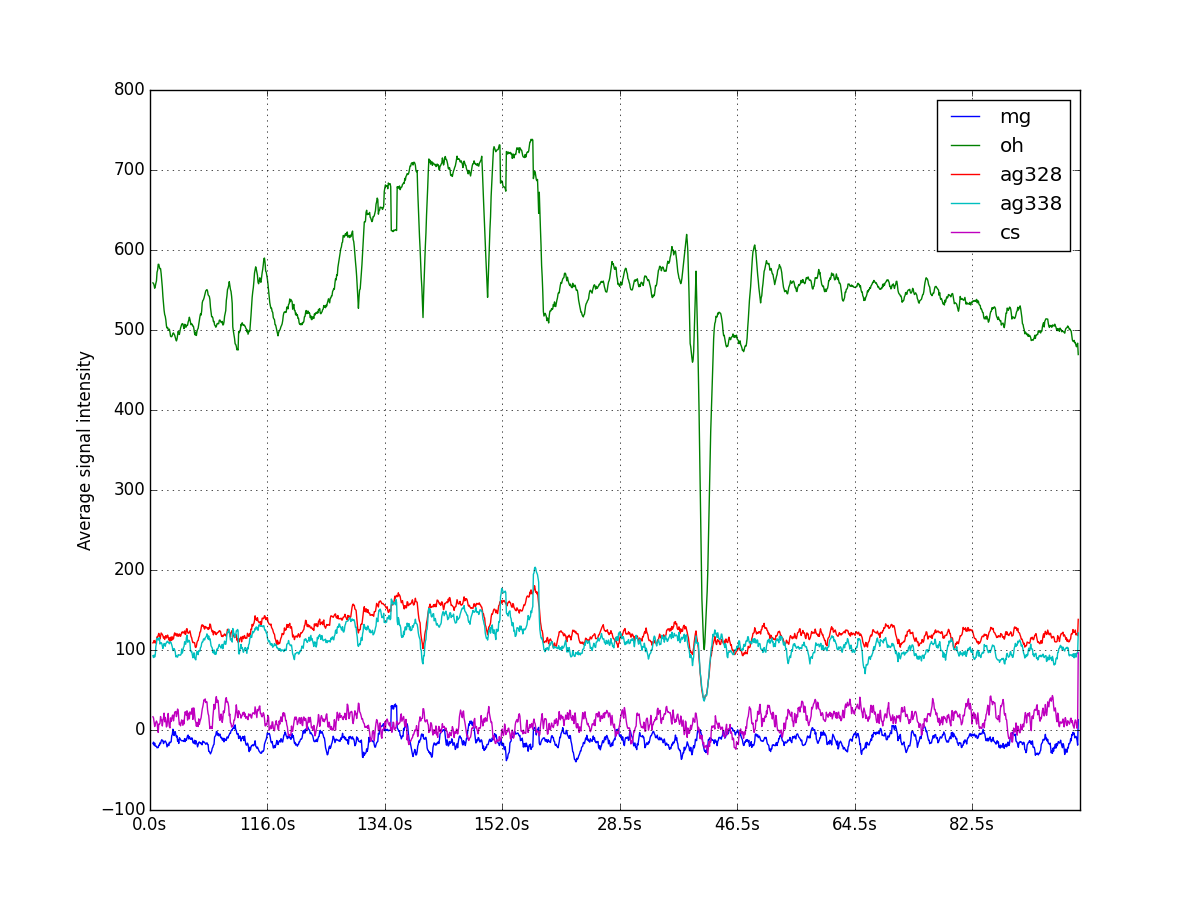
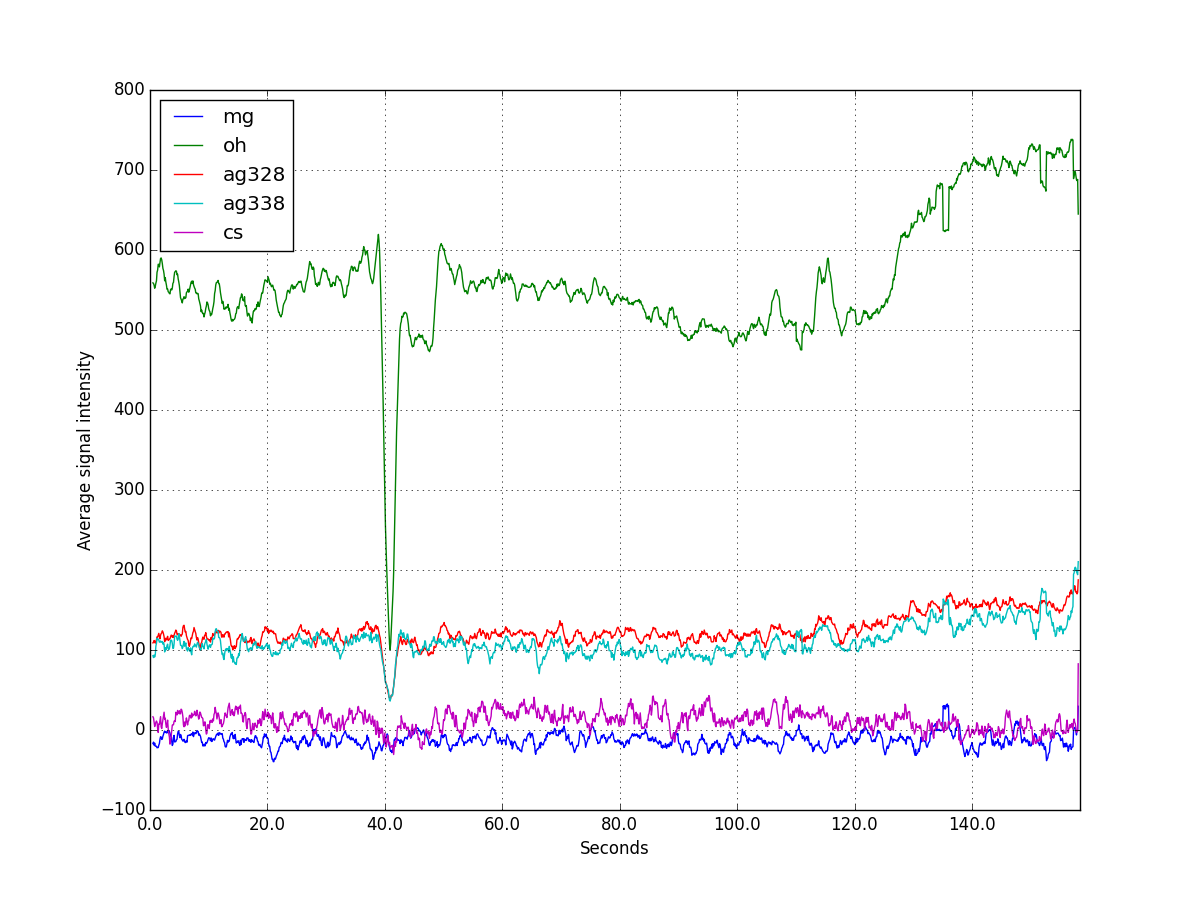
update

diff --git a/csv_to_graphs.py b/csv_to_graphs.py
@@ -27,6 +27,7 @@ cs_mean = pd.rolling_mean(cs, LENGTH_OF_ROLLING_MEAN, center=True)
 cs_mean = cs_mean.drop('wavelength')
 
 plt.figure(figsize=(12, 9))
+plt.xlabel('Seconds')
 plt.ylabel('Average signal intensity')
 ax = mg_mean.plot(label='mg', legend=True)
 oh_mean.plot(label='oh', legend=True, ax=ax)

diff --git a/tdms_csv.py b/tdms_csv.py
@@ -19,7 +19,7 @@ for i in range(len(newnames)):
     if 'Grid' in newnames[i]:
         temp2 = newnames[i].split('-')
         temp3 = temp2[1].split("'")
-        temp4 = str((float(temp3[0])-1)/10)+'s'
+        temp4 = (float(temp3[0])-1)/10
         newnames[i] = temp4
 
 df.columns = newnames
